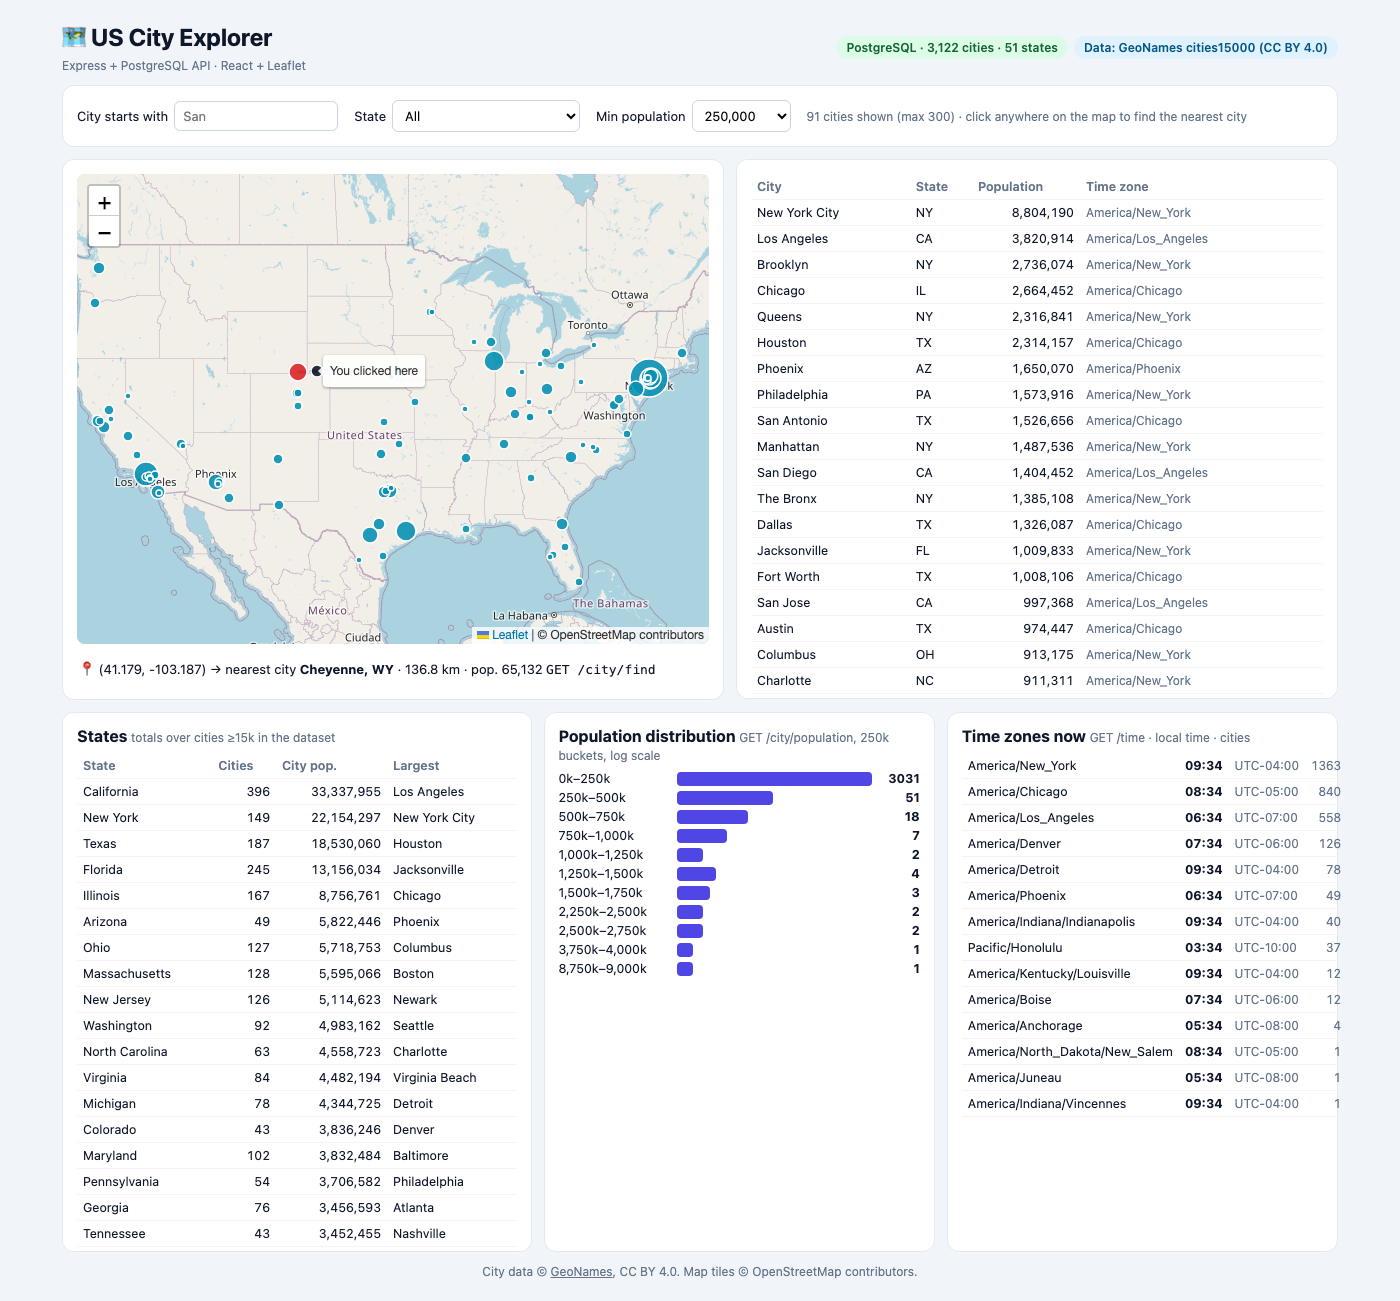
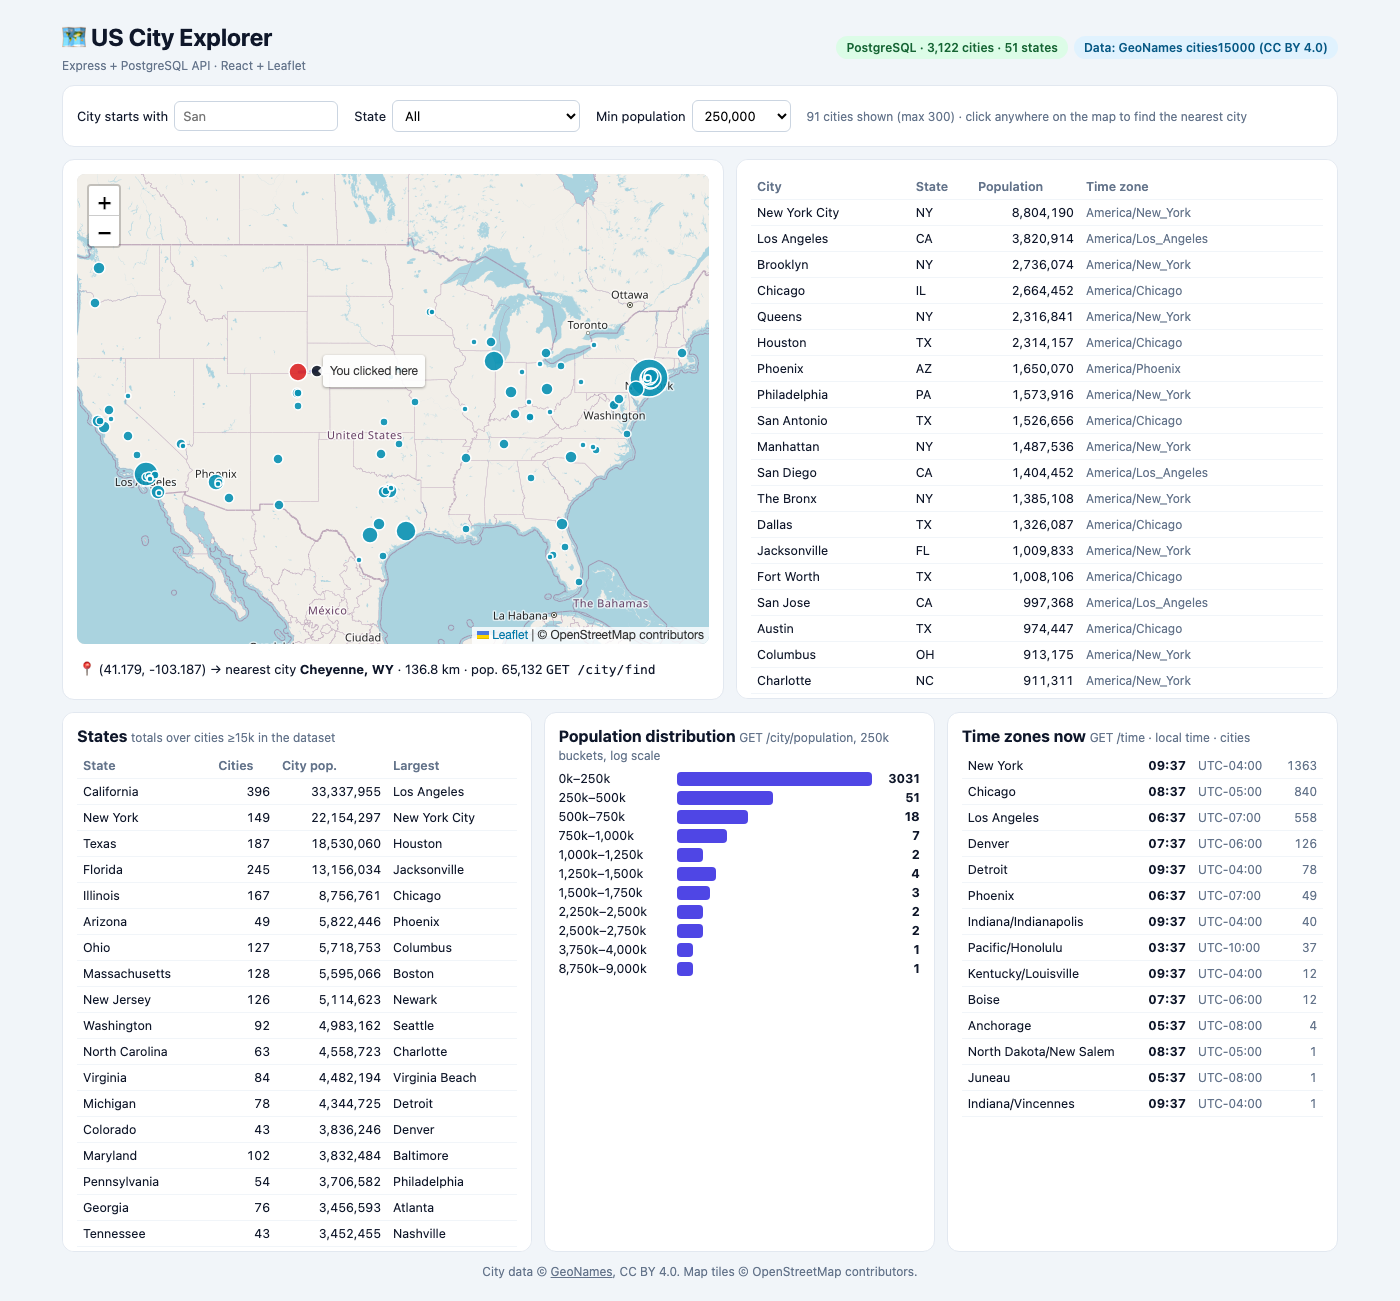
UI: fix time-zone card truncation; retake screenshots

Changed region(s): [[0.6757, 0.5842, 0.9521, 0.8609]]

diff --git a/frontend/src/App.tsx b/frontend/src/App.tsx
@@ -86,7 +86,7 @@ export default function App() {
         </section>
         <section className="card">
           <h3>Time zones now <span className="hint">GET /time · local time · cities</span></h3>
-          <table><tbody>{zones.map(z => <tr key={z.name}><td>{z.name}</td><td className="num"><b>{z.time.slice(11, 16)}</b></td><td className="hint">UTC{z.utc_offset}</td><td className="num hint">{z.cities}</td></tr>)}</tbody></table>
+          <table><tbody>{zones.map(z => <tr key={z.name}><td title={z.name}>{z.name.replace(/^America\//, "").replace(/_/g, " ")}</td><td className="num"><b>{z.time.slice(11, 16)}</b></td><td className="hint">UTC{z.utc_offset}</td><td className="num hint">{z.cities}</td></tr>)}</tbody></table>
         </section>
       </div>
       <footer className="hint">City data © <a href="https://www.geonames.org">GeoNames</a>, CC BY 4.0. Map tiles © OpenStreetMap contributors.</footer>

diff --git a/frontend/src/styles.css b/frontend/src/styles.css
@@ -31,3 +31,4 @@ th { color: #64748b; font-weight: 600 } tr.click { cursor: pointer } tr.click:ho
 .scroll { max-height: 540px; overflow: auto } .num { text-align: right; font-variant-numeric: tabular-nums }
 .nearest { font-size: 13px; padding: 6px 2px } footer { text-align: center } footer a { color: inherit }
 .bar { grid-template-columns: 110px 1fr 40px }
+.cols3 table td { white-space: nowrap } .cols3 .card { min-width: 0 }
